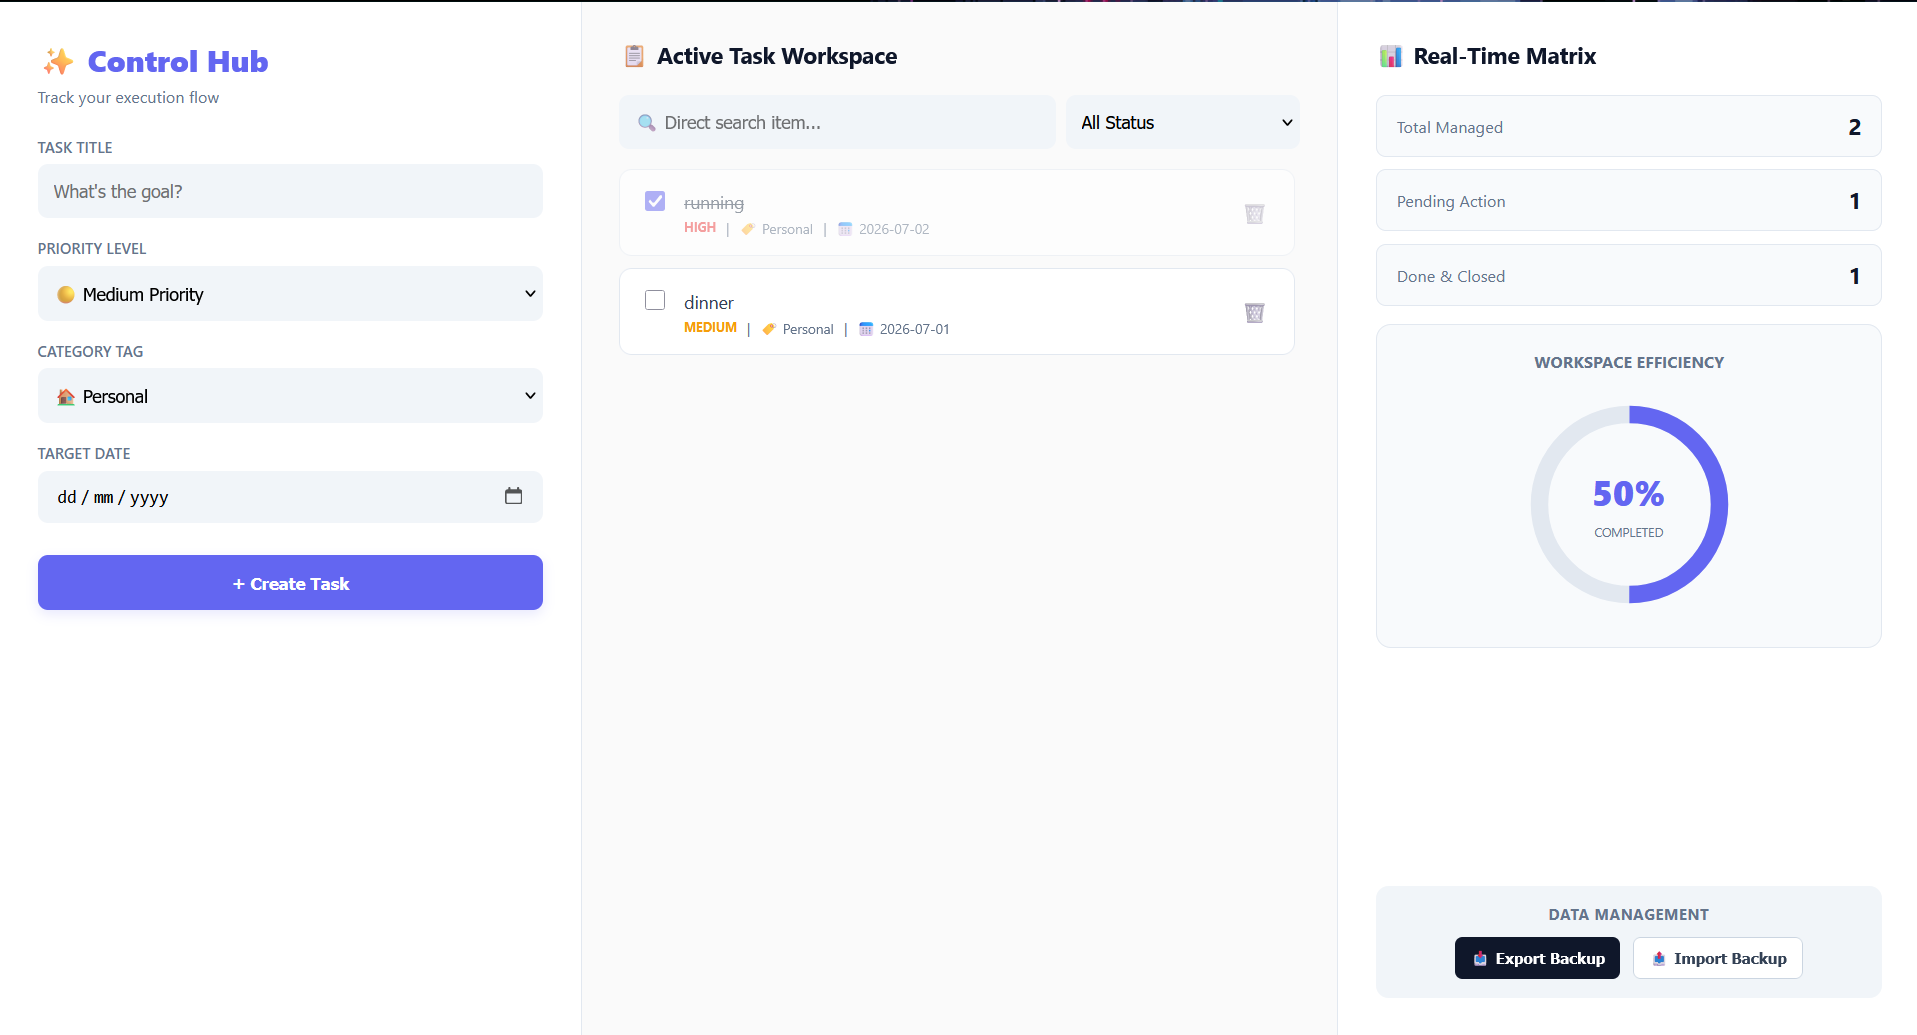
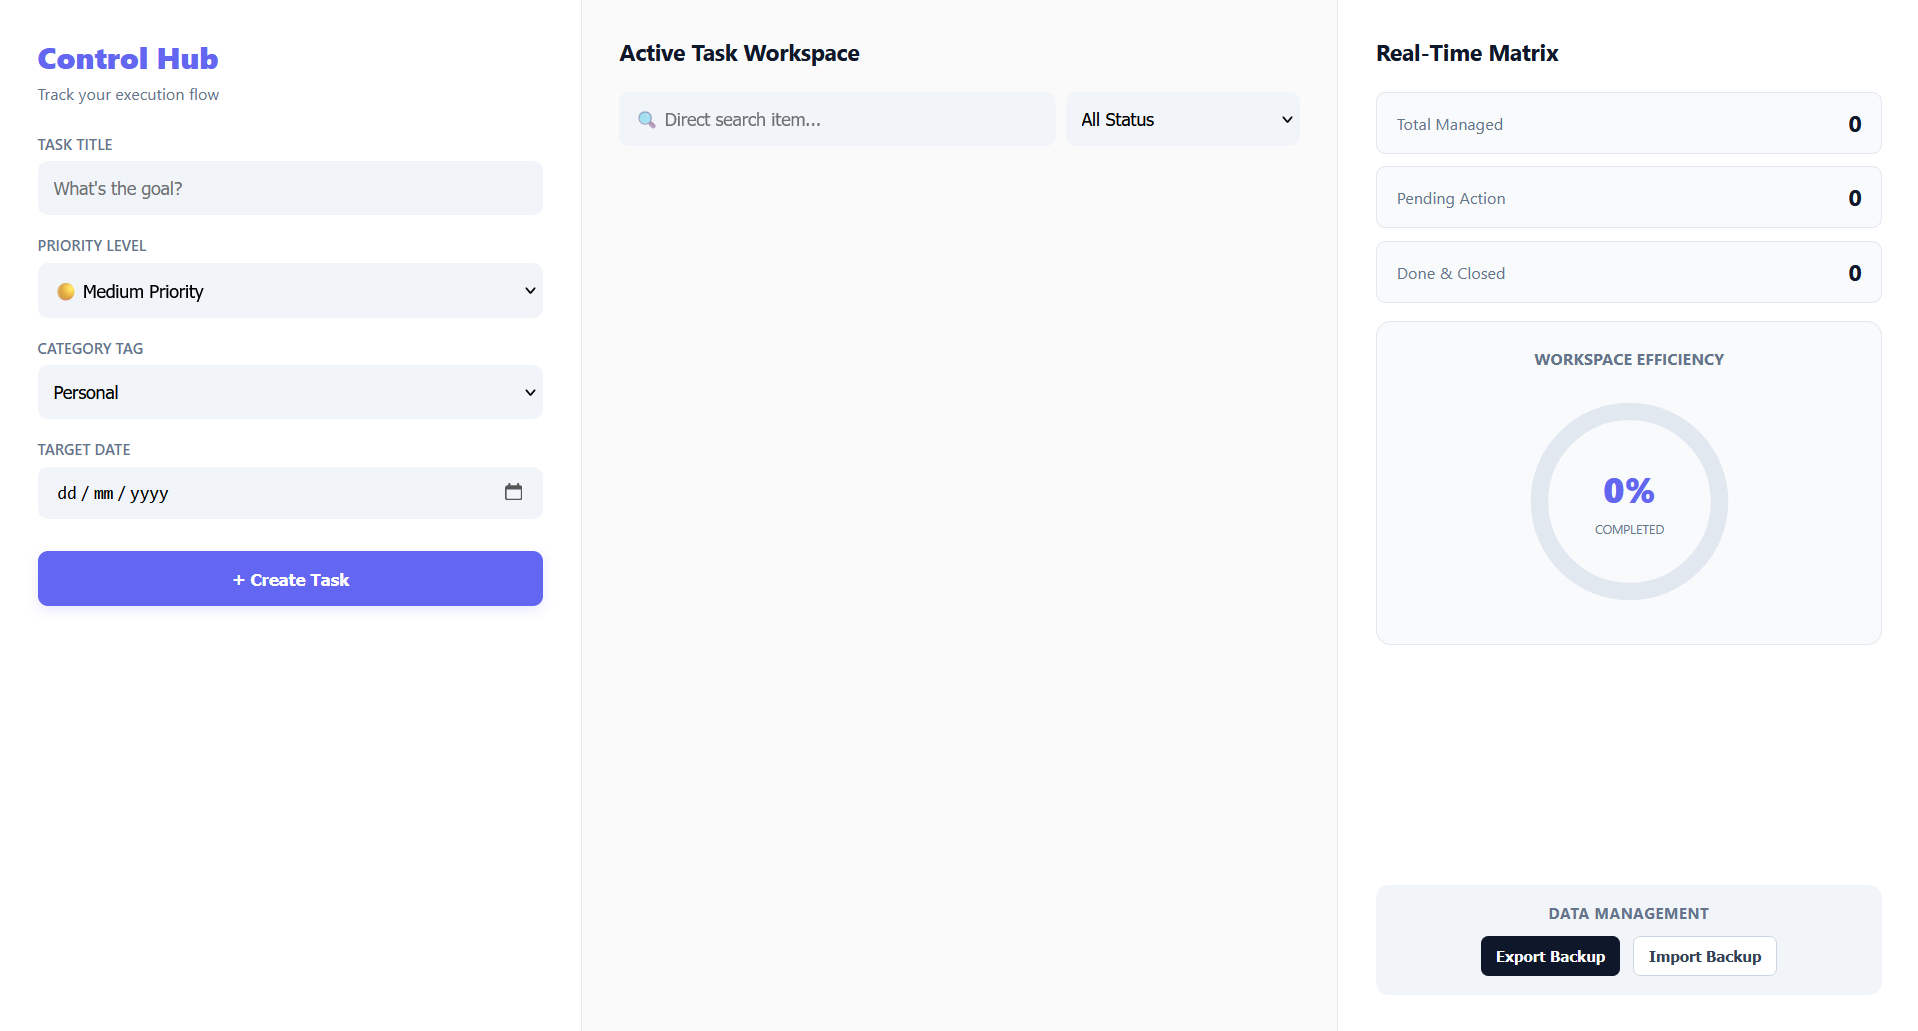
remove some headings

diff --git a/index.html b/index.html
@@ -50,7 +50,7 @@
 
         <section class="list-section">
             <div class="section-header">
-                <h2>📋 Active Task Workspace</h2>
+                <h2> Active Task Workspace</h2>
                 <div class="search-bar-container">
                     <input type="text" id="search-input" placeholder="🔍 Direct search item..." />
                     <select id="filter-select">
@@ -67,7 +67,7 @@
         </section>
 
         <section class="graph-section">
-            <h2>📊 Real-Time Matrix</h2>
+            <h2> Real-Time Matrix</h2>
             
             <div class="metrics-stack">
                 <div class="metric-pill info">
@@ -102,7 +102,7 @@
                 <h4>Data Management</h4>
                 <div class="backup-actions">
                     <button id="export-btn"> Export Backup</button>
-                    <button id="import-trigger-btn" onclick="document.getElementById('import-file').click()">📤 Import Backup</button>
+                    <button id="import-trigger-btn" onclick="document.getElementById('import-file').click()"> Import Backup</button>
                     <input type="file" id="import-file" accept=".json" style="display: none;" />
                 </div>
             </div>